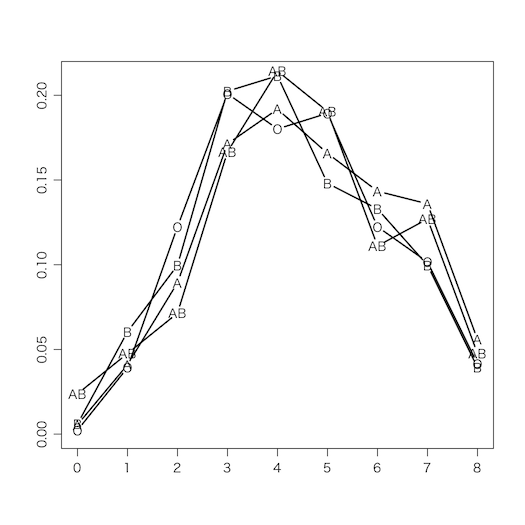
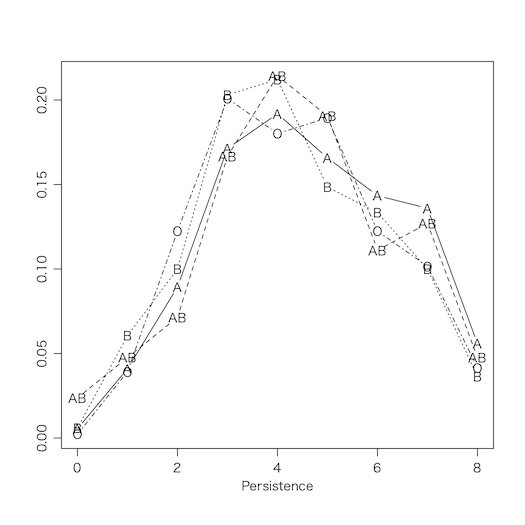
modified

diff --git a/stat/190206.html b/stat/190206.html
@@ -3,7 +3,7 @@
 <head>
 <meta charset="UTF-8">
 <meta name="viewport" content="width=device-width">
-<title>血液型と性格</title>
+<title>またまた血液型と性格</title>
 <link rel="stylesheet" href="style.css">
 <link rel="license" href="http://creativecommons.org/licenses/by/4.0/">
 </head>
@@ -14,13 +14,15 @@
 <a href="./">統計・データ解析</a> &gt;
 </nav>
 
-<h1>血液型と性格</h1>
+<h1>またまた血液型と性格</h1>
 
 <p>以下ではABO血液型（表現型，遺伝子型）と性格に有意な関係を示したとする次の論文を紹介する：</p>
 
-<ul lang="en">
-  <li>Shoko Tsuchimine, Junji Saruwatari, Ayako Kaneda, Norio Yasui-Furukori, “ABO Blood Type and Personality Traits in Healthy Japanese Subjects”, <i>PLOS ONE</i> (2015) <a href="https://doi.org/10.1371/journal.pone.0126983">DOI:10.1371/journal.pone.0126983</a></li>
-</ul>
+<blockquote lang="en">
+Shoko Tsuchimine, Junji Saruwatari, Ayako Kaneda, Norio Yasui-Furukori, “ABO Blood Type and Personality Traits in Healthy Japanese Subjects”, <i>PLOS ONE</i> (2015) <a href="https://doi.org/10.1371/journal.pone.0126983">DOI:10.1371/journal.pone.0126983</a>
+</blockquote>
+
+<p>これは2015年当時ネットで話題になったが，豊田秀樹編著『たのしいベイズモデリング』（北大路書房，2018年）の第2章でも取り上げられている。</p>
 
 <p>論文にはデータのExcelファイルが付いていて，これを使えば検証できる？と思ったけれど，論文では年齢・性別でコントロールしてあり，年齢・性別はExcelファイルには含まれていない。</p>
 
@@ -47,7 +49,13 @@ C (Cooperativeness),
 ST (Self-transcendence)
 である。</p>
 
-<p><code>sum(complete.cases(x))</code> で調べてみると，欠損値を一つも含まない行は1426ある（論文では1427とされている）。</p>
+<p>これら全変数が揃っているものだけ抜き出そう：</p>
+
+<pre>
+x = subset(x, complete.cases(x))
+</pre>
+
+<p>これで1426行に減る（論文では1427とされている）。</p>
 
 <p>この表の「Blood types」は遺伝子型（AA, AB, AO, BB, BO, OO）で，これらに対応する表現型はそれぞれ A, AB, A, B, B, O である。遺伝子型を表現型に変換するには，Rではいろいろなやりかたがあるが，@hoxo_m さんの<a href="https://qiita.com/hoxo_m/items/b526d174d9d0291c7264">Rでハッシュテーブルの速度比較</a>を参考に，ここでは一番簡単な名前付きベクトルを使うことにする：</p>
 
@@ -82,29 +90,43 @@ Residuals 1422
 	One-way analysis of means (not assuming equal variances)
 
 data:  P and `Blood types`
-F = 2.5518, num df = 5.00, denom df = 288.18, p-value = 0.02799
+F = 2.5173, num df = 5.00, denom df = 285.15, p-value = 0.02993
 
 <code>oneway.test(P ~ ABO, data=x)</code>
 
 	One-way analysis of means (not assuming equal variances)
 
 data:  P and ABO
-F = 2.5906, num df = 3.0, denom df = 483.5, p-value = 0.05222
+F = 2.714, num df = 3.00, denom df = 483.28, p-value = 0.04434
 </pre>
 
-<p>論文ではそれぞれ <i>p</i> = 0.020, 0.032 だが，年齢・性別でコントロールしていないためか，ここでの計算結果は <i>p</i> = 0.028, 0.052 となった。しかし，多重性まで考えれば，有意な結果が得られたとは言い難い。</p>
+<p>論文ではそれぞれ <i>p</i> = 0.020, 0.032 だが，年齢・性別でコントロールしていないためか，ここでの計算結果は <i>p</i> = 0.030, 0.044 となった。しかし，7変数のうち1変数である。多重性まで考えれば，有意な結果が得られたとは言い難い。</p>
 
 <p>Persistence の度数分布は次の通りである。これを見てもあまり意味のある差がありそうにない。</p>
 
+<pre>
+a = names(table(x$ABO))
+p = sapply(a, function(b) { t = table(subset(x, ABO==b)$P); t / sum(t) })
+matplot(0:8, p, type="b", pch=" ", col="black", xlab="Persistence", ylab="")
+sapply(a, function(b) text(0:8, p[,b], b))
+</pre>
+
 <figure><img src="img/190206c.png" alt="Persistence の度数分布"></figure>
 
+<p>血液型ごとに平均±標準誤差をエラーバーで表してみる：</p>
+
 <pre>
-a = "B"; t = table(subset(x, ABO==a)$P); plot(t/sum(t), type="b", pch=a, ylab="")
-a = "A"; t = table(subset(x, ABO==a)$P); points(t/sum(t), type="b", pch=a)
-a = "O"; t = table(subset(x, ABO==a)$P); points(t/sum(t), type="b", pch=a)
-a = "AB"; t = table(subset(x, ABO==a)$P); points(t/sum(t), type="b", pch=' ')
-text(0:8, t/sum(t), 'AB')
+n = table(x$ABO)
+m = sapply(names(n), function(a) mean(subset(x, ABO==a)$P))
+s = sapply(names(n), function(a) sd(subset(x, ABO==a)$P))
+se = s / sqrt(n)
+plot(1:4, m, pch=16, xlim=c(0.5,4.5), ylim=range(c(m+se,m-se)),
+     xaxt="n", xlab="Phenotype", ylab="Persistence")
+arrows(1:4, m-se, 1:4, m+se, length=0.05, angle=90, code=3)
+axis(1, at=1:4, labels=names(n))
 </pre>
+
+<figure><img src="img/190207a.png" alt="Persistence の度数分布"></figure>
 
 <hr>
 
@@ -113,7 +135,7 @@ text(0:8, t/sum(t), 'AB')
 
 <p>
 <!-- hhmts start -->
-Last modified: <time>2019-02-06 21:12:12</time>
+Last modified: <time>2019-02-07 09:24:23</time>
 <!-- hhmts end -->
 </p>
 </footer>

diff --git a/stat/index.html b/stat/index.html
@@ -46,7 +46,9 @@
   <li><a href="excel-resample.html">Excelによるリサンプリング</a></li>
   <li><a href="brunner-munzel.html">Brunner-Munzel検定</a></li>
   <li>話題: <a href="sexratio.html">出生性比</a></li>
-  <li>話題: <a href="bkare.html">B型の彼氏</a> / <a href="140720.html">血液型と性格の無関連性</a></li>
+  <li>話題: <a href="bkare.html">B型の彼氏</a> /
+      <a href="140720.html">血液型と性格の無関連性</a> /
+      <a href="190206.html">またまた血液型と性格</a></li>
   <li><a href="anova.html">分散分析</a></li>
   <li>話題: <a href="michelson.html">Michelson-Morley の実験</a></li>
   <li>話題: <a href="molt-or-blend.html">モルトかブレンドか</a></li>
@@ -291,7 +293,7 @@
 
 <p>
 <!-- hhmts start -->
-Last modified: <time>2019-01-30 10:01:46</time>
+Last modified: <time>2019-02-07 09:19:29</time>
 <!-- hhmts end -->
 </p>
 </body>
